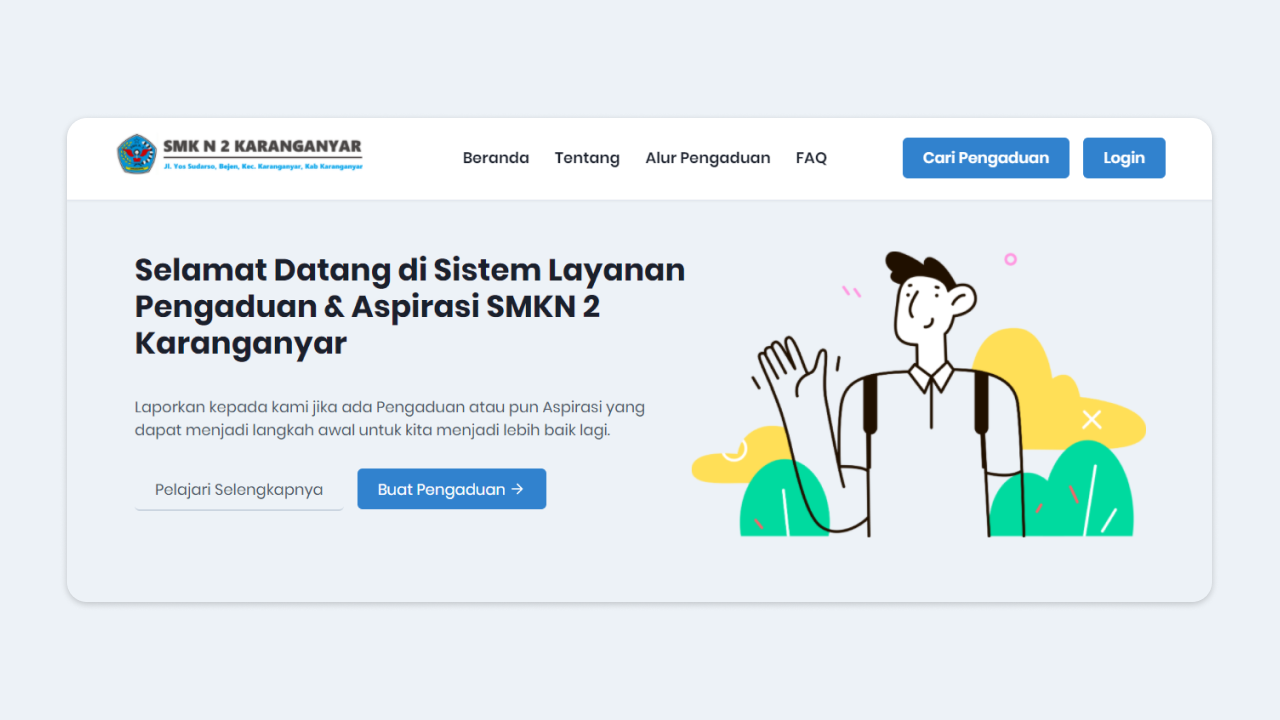
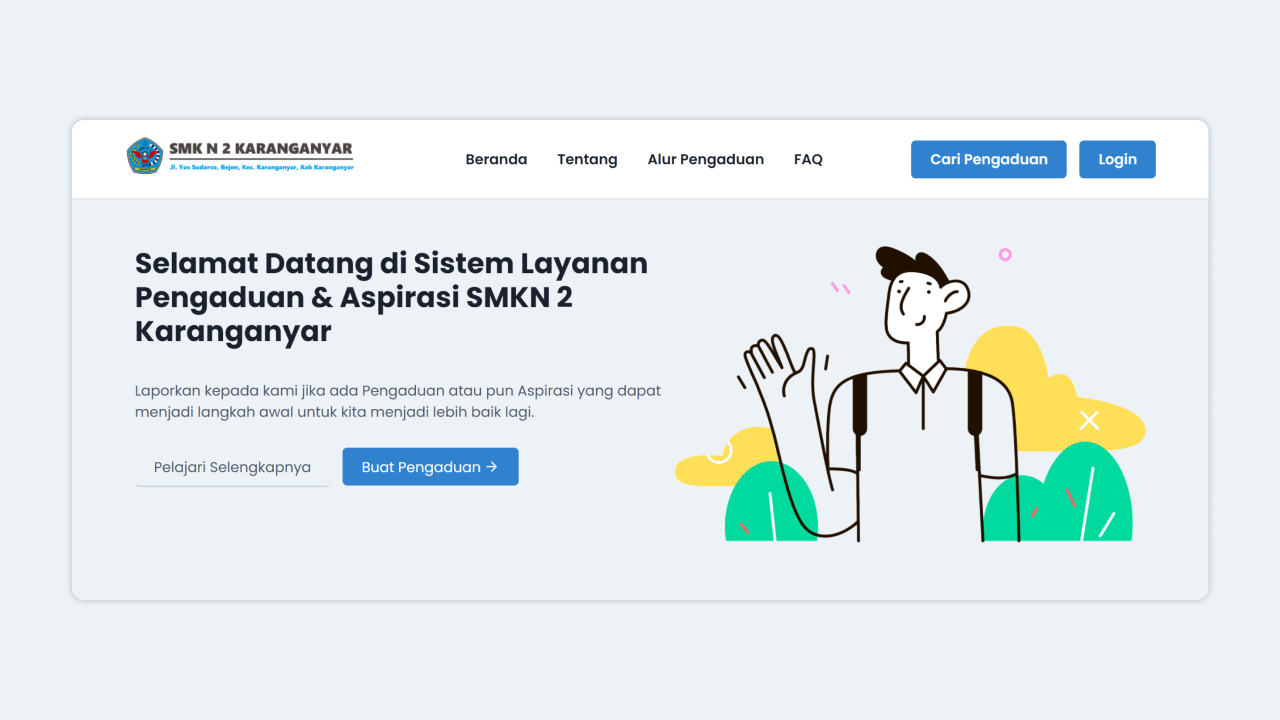
Customize scroll bar & add some assets

diff --git a/src/components/layouts/nav/Navbar.js b/src/components/layouts/nav/Navbar.js
@@ -28,7 +28,7 @@ const Navbar = () => {
       <Box boxSize="xs" pt={{ base: 455, lg: 260 }} mb={{ base: 500, lg: 260 }}>
         <Link to="/">
           <Image
-            src="/images/index.png"
+            src="/images/smkn2kra-logo.png"
             alt="SMKN 2 Karanganyar's Logo"
             h={{ base: 10, lg: 50 }}
           />

diff --git a/src/assets/css/style.css b/src/assets/css/style.css
@@ -1,3 +1,17 @@
 html {
   scroll-behavior: smooth;
 }
+
+::-webkit-scrollbar {
+  width: 12px;
+}
+
+::-webkit-scrollbar-track {
+  background: #fff;
+}
+
+::-webkit-scrollbar-thumb {
+  background-color: #2b6cb0;
+  border-radius: 8px;
+  border: 2px solid #fff;
+}

diff --git a/README.md b/README.md
@@ -2,7 +2,7 @@
 
 ## Preview
 
-![preview](public/images/preview.png)
+![Mockup](images/mockup.png)
 
 ### How To Run This App
 
